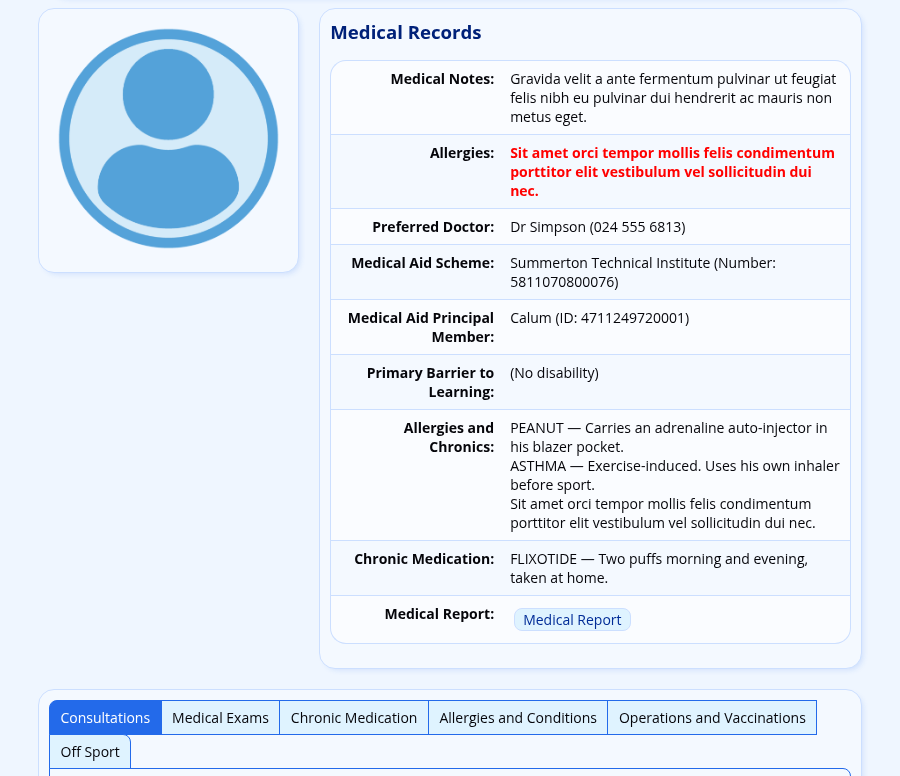
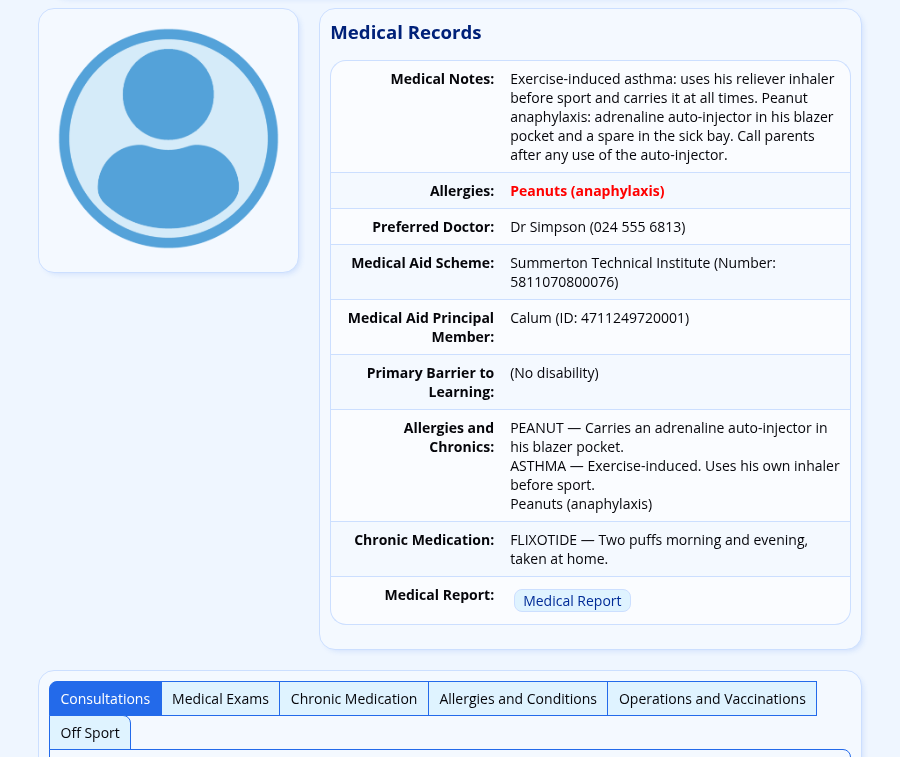
Picture the off sport list and alerts, and retake the pupil summary
Eight off sport entries and two off sport alerts were created through ADAM's
screens, and Edward Clark's own Medical Notes and Allergies fields were given
realistic values in place of the regenerated school's placeholder Latin. With
that, every medical screenshot brief is done.

medical-module-17 shows the off sport list with all eight entries and every
column. The table is 1286px wide, so it was taken at 1340px rather than the
house 900px; at 900 the Absent, Concussion and Antibiotics columns the page
describes are off screen. medical-module-19 shows the two alerts.
medical-module-14 is retaken with the same framing.

The captures corrected the page twice. The off sport filters are Class,
Grade, Location, Type, Absent and Concussion: the text was one column out,
because DataTables counts the leading row number, and there is no Antibiotics
filter. The alerts screen's add link reads "Add a new Off Sport alert".

TODO.md gains two items. An alert that emails subject teachers but no named
staff lists "Unknown" as a recipient: safeInt turns the empty staff list into
0, and 0 != '' holds under PHP 8. And the consultation form is noted to come
back to: at 900px its middle column scrolls sideways and the image is cut off
on the right, which needs a layout change in ADAM before a better capture is
possible.

diff --git a/TODO.md b/TODO.md
@@ -139,49 +139,25 @@ way out. Place it in *By filter*, after the paragraph that ends "...as many time
 
 ---
 
-## Medical Module (`docs/medical-module.md`)
+## Medical Module — consultation form width (`docs/medical-module.md`)
 
-The page was rewritten from a stub to cover the whole module. The *Medical Examinations* images are
-the original `medical-module-01.png` to `-13.png`, which still match. `-14.png`, `-15.png`,
-`-16.png` and `-18.png` are captured and in place, all against **Edward Clark** (pupil 5083). The two
-briefs below reserve `-17.png` and `-19.png`; number anything else from `-20.png` upward.
+All the medical screenshots are captured and in place. One thing is left to come back to, and it
+needs development before it needs a picture.
 
-The demonstration data behind them was created through ADAM's screens on 2026-09-16 and is listed in
-`docs/assets/screenshots/medical-module/captures.yml` and `…/medical-stock/captures.yml`.
+At the manual's 900px capture width, the consultation form's middle column is `overflow: auto` and
+scrolls sideways. The right-hand edge of the **Notes** box and the **Actions** column of the
+**Medication** table run past it, so `medical-module-15.png` shows the form cut off on the right.
+That is how ADAM draws the screen at that width, not a bad crop: the three-column layout (photograph,
+form, allergies panel) does not leave the form enough room.
 
-> [!WARNING] still blocked on demonstration data
-> There are no off sport entries and no off sport alerts. Creating them was refused by the capturing
-> session's permission check, part-way through seeding, so whoever picks this up needs permission to
-> create those records first. Plan used so far: Edward Clark, Calvin Naidoo (4832), Ivy Naidoo (5476),
-> Jenna Dlamini (5186), Hamish Pillay (5202), Harrison Pillay (5428), Hamza Khumalo (5339), Stacy
-> Jacobs (3857) — current Grade 8 and 9 pupils with classes. Calvin Naidoo's consultation is a
-> concussion at hockey, so his off sport entry should carry **Concussion: Yes**.
+**Take to development:** the layout of **Add a Medical Consultation** at narrower widths — for
+example, dropping the allergies panel below the form, or letting the form use the full width.
+Once that changes, re-capture `medical-module-15.png` with the setup recorded in
+`docs/assets/screenshots/medical-module/captures.yml`.
 
-### `medical-module-14.png` — re-capture once the profile text is realistic
-
-It is in place and framed correctly, but Edward Clark's own **Medical Notes** and **Allergies**
-profile fields hold placeholder Latin from the regenerated school, and the Allergies text shows in
-bold red. Give those two fields believable values (for example, notes about his asthma plan and
-"Peanuts — anaphylactic") and re-capture with the same framing; see its `captures.yml` entry.
-
-### 4. The off sport list — `medical-module-17.png`
-
-**Pupils → Medical Records → View the Off Sport List**.
-
-Frame the filter row and the first several rows of the table, showing the **Absent**, **Concussion**
-and **Antibiotics** columns. Six to ten pupils is enough; the table should look used rather than empty.
-
-Place it in *Viewing the Off Sport List*, after the paragraph describing the columns.
-
-### 6. The off sport alerts screen — `medical-module-19.png`
-
-**Administration → Medical Administration → Manage Off Sport Alerts**.
-
-Frame the **Current Alerts** table with at least two alerts in it, so the per-reason arrangement is
-visible, and the **Disabled Alerts** heading beneath. A second image of the add form is not needed —
-it has three fields and they are listed in the text.
-
-Place it in *Off Sport Alerts*, after the paragraph naming the two tables.
+The off sport list (`-17.png`) has a related but separate problem: its table is 1286px wide, so it
+was captured at 1340px, an exception to the house width. If development makes the consultation form
+narrower-friendly, it is worth asking about that table at the same time.
 
 ---
 
@@ -359,6 +335,22 @@ default, which can still be overridden.
 
 (Every type on the demonstration school defaults to **No**, so a picture could not show the fault or
 the fix without changing a type first.)
+
+---
+
+## Off Sport Alerts — an alert with no staff shows "Unknown"
+
+Found while creating demonstration data on 2026-09-16; not on `fix/medical-module-permissions`.
+
+On **Manage Off Sport Alerts**, an alert that emails subject teachers but no named staff lists its
+recipients as "Unknown, Grade Tutor, Register Class", with **Unknown** linked to an empty
+`mailto:`. `Alerts::displayAlerts` runs `Validation::safeInt (explode (":", $alert ['alert_email']))`:
+an empty string becomes `[0]`, and the following `if ($staff != '')` is true for `0` under PHP 8's
+comparison rules, so it prints `StaffMember::getName (0)`. The same pattern guards the subjects loop.
+
+Worth checking whether `AlertData` has the same fault when it builds the emails, since an alert with
+no named staff is an ordinary way to set one up. The manual does not mention it; the screenshot was
+taken after giving the alert a named staff member.
 
 ---
 

diff --git a/docs/medical-module.md b/docs/medical-module.md
@@ -336,7 +336,9 @@ Navigate to **Pupils → Medical Records → View the Off Sport List**.
 
 The list shows current and forthcoming entries — anything that has already ended drops off it — with the pupil’s **Surname**, **Firstname**, **Class** and **Grade**, the **Start** and **End** dates, the **Location**, **Type**, and the **Absent**, **Concussion** and **Antibiotics** flags, together with any **Comments**.
 
-Above the table are dropdown filters for grade, start date, type, absent, concussion and antibiotics, and a search box. This is the screen a sports department works from at the start of an afternoon.
+Above the table are dropdown filters for **Class**, **Grade**, **Location**, **Type**, **Absent** and **Concussion**, and there is a **Search** box above the table itself for anything else, such as a pupil’s name or a word in the comments. This is the screen a sports department works from at the start of an afternoon.
+
+![](assets/screenshots/medical-module/medical-module-17.png)
 
 ### Adding a Pupil to the Off Sport List
 
@@ -359,7 +361,7 @@ Record:
 > Each off sport type carries its own absent setting, and the form is meant to copy that setting across when you choose a **Type**. At present it does not, so check **Counts as Absent for Roll Call** by hand every time.
 
 > [!NOTE]
-> **Concussion** and **Antibiotics** have their own columns and their own filters on the off sport list. A school with a concussion protocol can therefore produce the list of pupils currently under it without needing a separate record anywhere.
+> **Concussion** and **Antibiotics** have their own columns on the off sport list, and **Concussion** has its own filter. A school with a concussion protocol can therefore produce the list of pupils currently under it without needing a separate record anywhere.
 
 ### Off Sport and Roll Call
 
@@ -375,9 +377,11 @@ Navigate to **Administration → Medical Administration → Manage Off Sport Typ
 
 An off sport alert emails staff a list of the pupils who are off sport today. Each alert watches one off sport type, so a school can treat concussion differently from a sprained ankle.
 
-Navigate to **Administration → Medical Administration → Manage Off Sport Alerts**. Existing alerts are shown under **Current Alerts**, with anything switched off under **Disabled Alerts**.
+Navigate to **Administration → Medical Administration → Manage Off Sport Alerts**. Existing alerts are shown under **Current Alerts**, with anything switched off under **Disabled Alerts**. Each row names the off sport reason it watches and everybody it emails: the staff chosen by name, followed by the subjects whose teachers are told.
 
-Click to add a new alert, or **edit** an existing one, and set:
+![](assets/screenshots/medical-module/medical-module-19.png)
+
+Click **Add a new Off Sport alert**, or **edit** an existing one, and set:
 
 -   **Off Sport reason:** which off sport type this alert watches. One alert watches one reason; set up several alerts to cover several reasons.
 -   **Email staff:** staff who should always receive the full list, whoever they teach. This is for the director of sport or the head of the sanatorium, and should be the exception rather than the rule.
